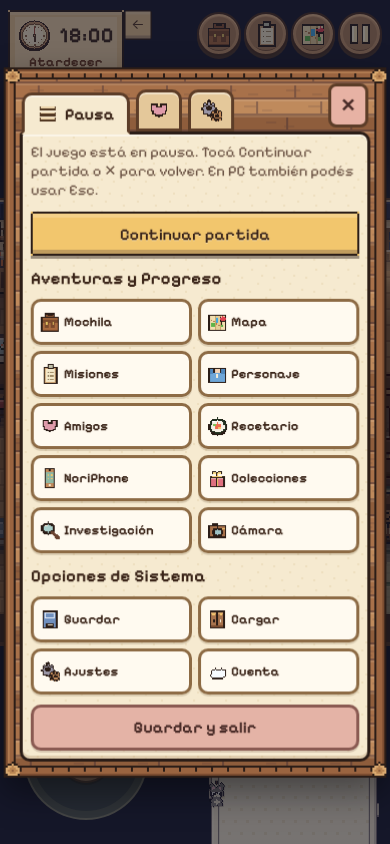
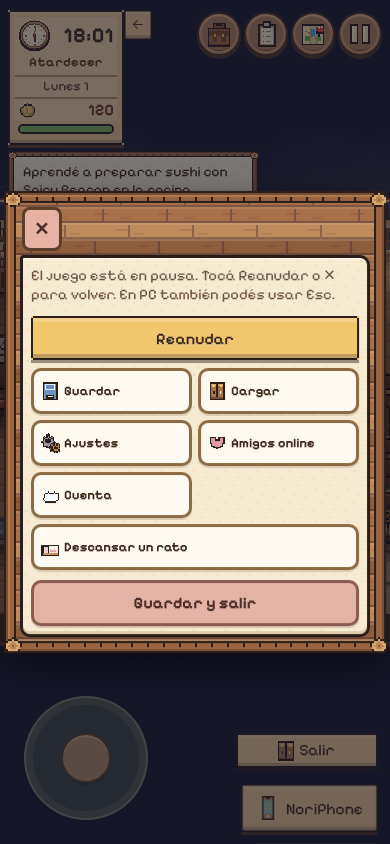
UI etapa 2: pausa con Reanudar, Guardar, Cargar, Ajustes y Salir; partidas vacías sin botón; dormir en un cuadro compacto; recetas conocidas primero; mejoras disponibles antes que bloqueadas; encargos con detalle plegable
Claude-Session: https://claude.ai/code/session_01Q9tFTKZvvquF6SSLj5Ec4x

diff --git a/src/ui/menus.ts b/src/ui/menus.ts
@@ -1,4 +1,3 @@
-import { inputMethod } from '../input/keys';
 import { recipeCollectionView } from './recipes';
 import { runTask } from '../core/errors';
 /** Main in-game menus: bag, journal (quests, investigation, relations, collections, calendar), and menu. */
@@ -25,8 +24,6 @@ import { openTownMemories } from './townMemories';
 import { chip, emptyState, tabBar } from './kit';
 import { skinIconEl } from './skin';
 import { dayOfSeason, seasonOf, SEASONS, weekday } from '../core/balance';
-import { settings } from '../core/settings';
-import { bindingMap, keyLabel, type GameAction } from '../input/bindings';
 
 function tabs(names: string[], onPick: (i: number) => void, start = 0, icons: string[] = []) {
   const bar = tabBar(names.map((label, i) => ({ label, icon: icons[i] })), onPick, start);
@@ -258,69 +255,29 @@ export function openMenu(pause = false) {
   const p = panel({ title: 'Menú', body: grid });
 }
 
-/** Wooden pause board from the reference: adventures on top, system underneath, exit across the bottom. */
+/** Pause board: resume, save, load, settings and exit. Everything else lives in the NoriPhone. */
 function openPauseBoard() {
-  const keys = bindingMap(settings.bindings);
-  const badge = (action: GameAction) => keyLabel(keys[action]);
   let close = () => {};
   const go = (fn: () => void) => () => { close(); void runTask('ui:menu', fn); };
-  const item = (label: string, icon: string, fn: () => void, key?: string, wide = false) =>
-    h('button', { type: 'button', class: 'pause-item' + (wide ? ' wide' : ''), onclick: go(fn) }, skinIconEl(icon), h('span', null, label), key && inputMethod() !== 'touch' ? h('kbd', null, key) : null);
+  const item = (label: string, icon: string, fn: () => void, wide = false) =>
+    h('button', { type: 'button', class: 'pause-item' + (wide ? ' wide' : ''), onclick: go(fn) }, skinIconEl(icon), h('span', null, label));
 
-  const adventure = h('div', { class: 'pause-page' },
-    h('p', { class: 'pause-hint' }, 'El juego está en pausa. Tocá Continuar partida o ✕ para volver. En PC también podés usar Esc.'),
-    h('button', { type: 'button', class: 'btn primary', onclick: () => close() }, 'Continuar partida'),
-    h('h3', null, 'Aventuras y Progreso'),
-    h('div', { class: 'pause-grid' },
-      item('Mochila', 'bag', () => openBag(), badge('inventory')),
-      item('Mapa', 'map', () => openMap(), badge('map')),
-      item('Misiones', 'clipboard', () => openJournal(0), badge('journal')),
-      item('Personaje', 'shirt', () => import('./wardrobe').then((m) => m.openWardrobe())),
-      item('Amigos', 'heart', () => openJournal(2)),
-      item('Recetario', 'maki', () => openJournal(4)),
-      item('NoriPhone', 'phone', () => openNoriPhone(), 'Tab'),
-      item('Colecciones', 'gift', () => openJournal(3)),
-      item('Investigación', 'inspect', () => openJournal(1)),
-      item('Cámara', 'camera', () => import('./camera').then((m) => m.takePhoto())),
-    ),
-    h('h3', null, 'Opciones de Sistema'),
+  const page = h('div', { class: 'pause-page' },
+    h('p', { class: 'pause-hint' }, 'El juego está en pausa. Tocá Reanudar o ✕ para volver. En PC también podés usar Esc.'),
+    h('button', { type: 'button', class: 'btn primary', onclick: () => close() }, 'Reanudar'),
     h('div', { class: 'pause-grid' },
       item('Guardar', 'disk', saveManualSlot),
       item('Cargar', 'door', loadSlot),
       item('Ajustes', 'gear', () => openSettings(true)),
+      item('Amigos online', 'heart', () => import('./friends').then((m) => m.openFriends())),
       item('Cuenta', 'cloud', () => import('./account').then((m) => m.openAccount())),
+      item('Descansar un rato', 'bed', () => restPeriod(), true),
     ),
     h('button', { type: 'button', class: 'pause-exit', onclick: go(saveAndExit) }, 'Guardar y salir'),
   );
-  const friends = h('div', { class: 'pause-page' },
-    h('h3', null, 'Amigos'),
-    h('div', { class: 'pause-grid' },
-      item('Amigos', 'heart', () => openJournal(2)),
-      item('Amigos online', 'heart', () => import('./friends').then((m) => m.openFriends())),
-      item('Jugar juntos', 'maki', () => import('./coop').then((m) => m.openCoop()), undefined, true),
-    ),
-  );
-  const system = h('div', { class: 'pause-page' },
-    h('h3', null, 'Sistema'),
-    h('div', { class: 'pause-grid' },
-      item('Ajustes', 'gear', () => openSettings(true)),
-      item('Descansar un rato', 'bed', () => restPeriod(), undefined, true),
-    ),
-  );
-  const pages = [adventure, friends, system];
-  const host = h('div', { class: 'pause-pages' });
-  const show = (i: number) => host.replaceChildren(pages[i]);
-  show(0);
-  const bar = tabBar([
-    { label: 'Pausa', icon: 'menu' },
-    { label: 'Amigos', icon: 'heart' },
-    { label: 'Ajustes', icon: 'gear' },
-  ], show, 0);
-  bar.classList.add('pause-tabs');
-  const p = panel({ title: 'Pausa', body: host });
+  const p = panel({ title: 'Pausa', body: page });
   close = p.close;
   p.root.classList.add('pause-sheet');
-  p.root.querySelector('.panel-head')?.prepend(bar);
 }
 
 async function saveManualSlot() {

diff --git a/src/ui/errands.ts b/src/ui/errands.ts
@@ -35,10 +35,10 @@ export function errandsSection(onClaim?: () => void): HTMLElement {
       const p = progressOf(e), done = isComplete(e);
       return h('article', { class: 'card col errand-card' + (done && !e.claimed ? ' ready' : '') + (e.claimed ? ' claimed' : ''), 'data-errand-id': e.id },
         h('div', { class: 'errand-heading' }, h('b', null, errandFrom(e)), h('span', { class: 'errand-status' }, e.claimed ? 'Recibido' : done ? e.kind === 'deliver' ? 'Listo para entregar' : 'Listo para cobrar' : 'En curso')),
-        h('div', null, errandText(e)),
-        h('p', { class: 'hint' }, errandHint(e)),
+        h('div', { class: 'errand-goal' }, errandText(e)),
         rewardList(e.coins, e.rewards),
         h('div', { class: 'bar', role: 'progressbar', 'aria-label': 'Progreso del encargo', 'aria-valuemin': '0', 'aria-valuemax': e.goal, 'aria-valuenow': p }, h('i', { style: { width: `${p / e.goal * 100}%` } })),
+        h('details', { class: 'errand-more' }, h('summary', null, 'Cómo se cumple'), h('p', { class: 'hint' }, errandHint(e))),
         h('div', { class: 'errand-actions' }, h('span', { class: 'hint' }, e.claimed ? 'Premio recibido' : `${p}/${e.goal}${pending ? ' · Premio guardado' : weekly ? ` · Hasta el día ${e.dueDay ?? st.week * 7 + 7}` : ' · Hoy'}`),
           done && !e.claimed ? h('button', { class: 'btn small primary', onclick: () => {
             const receipt = claimErrandReward(e.id);
@@ -51,14 +51,14 @@ export function errandsSection(onClaim?: () => void): HTMLElement {
             render();
           } }, e.kind === 'deliver' ? `Entregar ${e.goal} y recibir` : 'Recibir premio') : null));
     };
-    wrap.append(h('h3', null, `Encargos de hoy · Día ${st.day}`), h('p', { class: 'hint' }, 'Opcionales y sin castigos. Los premios de encargos completados esperan hasta que los cobres.'), ...st.daily.map((e) => card(e, false)));
-    wrap.append(h('h3', null, `Meta semanal · ${WEEKLY_THEMES.find((t) => t.id === st.weeklyTheme)?.name ?? 'Ayudar al pueblo'}`), h('p', { class: 'hint' }, 'Cada semana propone otra actividad disponible. Los muebles y adornos se guardan para que elijas dónde colocarlos.'), ...st.weekly.map((e) => card(e, true)));
+    wrap.append(h('h3', null, `Encargos de hoy · Día ${st.day}`), h('p', { class: 'hint' }, 'Opcionales y sin castigos. Los premios esperan hasta que los cobres.'), ...st.daily.map((e) => card(e, false)));
+    wrap.append(h('h3', null, `Meta semanal · ${WEEKLY_THEMES.find((t) => t.id === st.weeklyTheme)?.name ?? 'Ayudar al pueblo'}`), h('p', { class: 'hint' }, 'Cada semana propone otra actividad. Los muebles y adornos se guardan para que elijas dónde colocarlos.'), ...st.weekly.map((e) => card(e, true)));
     if (st.pending?.length) wrap.append(h('h3', null, 'Premios pendientes'), ...st.pending.map((e) => card(e, e.id.startsWith('w'), true)));
     const completed = game.save.stats.weeklyErrandsDone ?? 0;
-    wrap.append(h('h3', null, 'Gracias de Villa Nori'), h('p', { class: 'hint' }, `${completed} encargos semanales recibidos. Podés dejar pasar semanas: no hay rachas que mantener.`), h('div', { class: 'errand-stamps' }, ...WEEKLY_STAMPS.map((stamp) => {
+    wrap.append(h('details', { class: 'errand-more errand-thanks' }, h('summary', null, `Gracias de Villa Nori · ${completed} encargos semanales`), h('p', { class: 'hint' }, 'Podés dejar pasar semanas: no hay rachas que mantener.'), h('div', { class: 'errand-stamps' }, ...WEEKLY_STAMPS.map((stamp) => {
       const got = game.has('once_errand_stamp_' + stamp.goal);
       return h('div', { class: 'errand-stamp' + (got ? ' earned' : '') }, furniturePicture(stamp.furniture), h('b', null, stamp.name), h('span', { class: 'hint' }, FURN_BY_ID[stamp.furniture].name), h('span', { class: 'hint' }, got ? 'Recibido · disponible en Decorar' : `Al recibir ${stamp.goal} metas semanales`));
-    })));
+    }))));
   };
   render();
   return wrap;

diff --git a/src/ui/styles.css b/src/ui/styles.css
@@ -141,6 +141,7 @@ button { font-family: var(--pixel); font-size: 1em; cursor: pointer; color: inhe
 .hint { font-size: .85em; color: var(--ink-soft); }
 .coin { color: #a07116; font-weight: 700; }
 .pill { display: inline-block; padding: 2px 8px; border-radius: 999px; background: var(--cream-2); font-size: .8em; }
+.pill.ok { background: #dfe9c8; color: #3f5a2c; }
 .bar { height: 10px; border-radius: 6px; background: var(--cream-2); border: 2px solid var(--wood-dark); overflow: hidden; }
 .bar > i { display: block; height: 100%; background: var(--rose-2); }
 .card { background: #fff8e8; border: 3px solid var(--cream-2); border-radius: 12px; padding: 10px; }
@@ -214,14 +215,13 @@ h3 { margin: 4px 0 8px; font-size: 1.05em; }
 .start-load-bar i { display: block; height: 100%; width: 0; background: repeating-linear-gradient(90deg, #f2c66d 0 8px, #e0a94f 8px 10px); transition: width .18s steps(6); }
 .start-load-tip { width: 100%; min-height: 52px; padding: 8px 10px; background: var(--tx-parchment) 0 0 / 32px 32px; border: 3px solid #2b1d17; color: #3a2418; }
 .sleep-pick { display: flex; flex-direction: column; gap: 8px; align-items: stretch; text-align: center; }
-.sleep-wake {
-  font-size: 2.2em; letter-spacing: 2px; line-height: 1.1; padding: 10px 8px; color: #fff4dc; text-shadow: var(--outline);
-  border: 12px solid transparent; border-image: var(--tx-logframe) 8 / 12px round; background: var(--tx-planks) center / 64px 64px;
-}
 .sleep-detail { margin: 0; font-weight: 600; color: #6b3a1e; }
 .sleep-range { width: 100%; height: 36px; accent-color: #c9783f; touch-action: pan-x; }
-.sleep-scale { display: flex; justify-content: space-between; font-size: .8em; color: var(--ink-soft); padding: 0 2px; }
-.reduce-motion .start-load, .reduce-motion .start-load-bar i, .reduce-motion .sleep-wake { transition: none; animation: none; }
+.panel-backdrop:has(.sleep-sheet) { align-items: center; }
+.panel.sleep-sheet { height: auto; max-height: min(100%, 360px); }
+.sleep-range-row { display: flex; align-items: center; gap: 8px; }
+.sleep-range-row .sleep-range { flex: 1; min-width: 0; }
+.reduce-motion .start-load, .reduce-motion .start-load-bar i { transition: none; animation: none; }
 .fade.on { opacity: 1; pointer-events: auto; }
 
 /* ---------- Dialogue ---------- */
@@ -933,8 +933,13 @@ html, body { -webkit-touch-callout: none; overscroll-behavior: none; }
 
 /* Notice-board rewards and keepsakes use the existing parchment and wooden palette. */
 .errands-section h3 { margin: 12px 0 2px; color: var(--wood-dark); }
+.card.save-empty { border-style: dashed; opacity: .75; }
 .errand-card { gap: 6px; }
 .errand-card p { margin: 0; }
+.errand-goal { font-weight: 600; }
+.errand-more { font-size: .92em; }
+.errand-more summary { cursor: pointer; color: #586d48; font-weight: 600; padding: 2px 0; }
+.errand-more[open] summary { margin-bottom: 4px; }
 .errand-card.ready { border-color: #7a9c62; background: #f2f4e5; }
 .errand-card.claimed { opacity: .65; }
 .errand-heading, .errand-actions { display: flex; align-items: center; justify-content: space-between; gap: 8px; flex-wrap: wrap; }

diff --git a/e2e/pause-menu.spec.ts b/e2e/pause-menu.spec.ts
@@ -14,16 +14,15 @@ test('escape menu matches the wooden two-column board', async ({ page }) => {
   await page.keyboard.press('Escape');
   const board = page.locator('.pause-sheet');
   await expect(board).toBeVisible();
-  await expect(board).toContainText('Aventuras y Progreso');
-  await expect(board).toContainText('Opciones de Sistema');
   await expect(board).toContainText('El juego está en pausa.');
-  await expect(board.getByRole('button', { name: 'Continuar partida' })).toBeVisible();
+  await expect(board.getByRole('button', { name: 'Reanudar' })).toBeVisible();
   await expect(board.getByRole('button', { name: 'Guardar y salir' })).toBeVisible();
-  const mochila = await board.getByRole('button', { name: /Mochila/ }).boundingBox();
-  const mapa = await board.getByRole('button', { name: /Mapa/ }).boundingBox();
-  expect(mochila && mapa).toBeTruthy();
-  expect(Math.abs(mochila!.y - mapa!.y)).toBeLessThan(8);
-  expect(mapa!.x).toBeGreaterThan(mochila!.x + mochila!.width - 4);
+  const guardar = await board.getByRole('button', { name: 'Guardar', exact: true }).boundingBox();
+  const cargar = await board.getByRole('button', { name: /Cargar/ }).boundingBox();
+  expect(guardar && cargar).toBeTruthy();
+  expect(Math.abs(guardar!.y - cargar!.y)).toBeLessThan(8);
+  expect(cargar!.x).toBeGreaterThan(guardar!.x + guardar!.width - 4);
+  await expect(board.getByRole('button', { name: /Mochila/ })).toHaveCount(0);
   const sheet = await board.boundingBox();
   expect(sheet!.width).toBeLessThan(520);
   expect(sheet!.x).toBeGreaterThan(200);
@@ -37,10 +36,9 @@ test('escape menu matches the wooden two-column board', async ({ page }) => {
   expect(clipped).toEqual([]);
   await page.screenshot({ path: 'docs/art/pausa/menu-390.png' });
 
-  await board.getByRole('tab', { name: 'Amigos' }).click();
-  await expect(board.getByRole('button', { name: 'Jugar juntos' })).toBeVisible();
-  await board.getByRole('tab', { name: 'Ajustes' }).click();
   await expect(board.getByRole('button', { name: 'Descansar un rato' })).toBeVisible();
+  await board.getByRole('button', { name: 'Ajustes' }).click();
+  await expect(page.locator('.panel-head', { hasText: 'Ajustes' })).toBeVisible();
   await page.keyboard.press('Escape');
   await expect(board).toHaveCount(0);
   expect(await page.evaluate(() => (window as any).mmDebug.clock.paused)).toBe(false);
@@ -69,7 +67,7 @@ test.describe('touch pause', () => {
         return { paused: m.clock.paused, canAct: m.world.canAct(), unchanged: m.game.save.time.minutes === before };
       })).toEqual({ paused: true, canAct: false, unchanged: true });
       if (width === 390) await page.screenshot({ path: 'docs/art/pausa/tactil.png' });
-      await board.getByRole('button', { name: 'Continuar partida' }).tap();
+      await board.getByRole('button', { name: 'Reanudar' }).tap();
       await expect(board).toHaveCount(0);
       expect(await page.evaluate(() => ({ paused: (window as any).mmDebug.clock.paused, canAct: (window as any).mmDebug.world.canAct() }))).toEqual({ paused: false, canAct: true });
     }

diff --git a/src/restaurant/kitchen.ts b/src/restaurant/kitchen.ts
@@ -20,7 +20,7 @@ import { PRESENTATIONS, recordRecipeResult, recipePresentation } from './recipeC
 import { WANT_TEXT, canCook, customerAsk, customerName, GENERIC_CUSTOMERS, learnRecipe, maxOrders, refreshOrders, serveOrder, addRestaurantXp, unlockLevelRecipes, charm } from './orders';
 import { mirror } from './mirror';
 import { plateState, serviceBoardNote, stagePlate, servingName, tableLabel, type PaidMeal } from './service';
-import { UPGRADES, buyUpgrade, upgradeMissing } from './upgrades';
+import { UPGRADES, buyUpgrade, upgradeMissing, type UpgradeDef } from './upgrades';
 
 /** Where to get wood and stone, shown next to whatever is missing. */
 const materialHint = (missing: string[]) => (missing.some((m) => /^(Madera|Piedra)/.test(m)) ? '. La madera y la piedra se compran en la Carpintería de Ren (plaza) o se juntan por el pueblo.' : '');
@@ -535,13 +535,15 @@ export function openUpgrades(onClose?: () => void) {
             }
           });
         } }, 'Ascender')) : h('p', { class: 'hint' }, rs.level === 1 ? 'El nivel 2 se alcanza cocinando, sin cobrar monedas ni materiales.' : 'Nivel máximo alcanzado. Seguí eligiendo mejoras y disfrutando del pueblo.')));
-    for (const u of UPGRADES) {
+    // available first, then the ones still blocked, bought ones last (order only; costs and requirements unchanged)
+    const rank = (u: UpgradeDef) => game.save.restaurant.upgrades.includes(u.id) ? 2 : upgradeMissing(u).length ? 1 : 0;
+    for (const u of [...UPGRADES].sort((a, b) => rank(a) - rank(b))) {
       const owned = game.save.restaurant.upgrades.includes(u.id);
       const missing = upgradeMissing(u);
       body.append(
         h('div', { class: 'card col' },
           h('b', null, u.name), h('div', { class: 'hint' }, u.desc),
-          owned ? h('span', { class: 'pill' }, 'Comprada') : h('div', { class: 'col' }, h('span', { class: 'hint' }, resources(u.price, u.items ?? {})),
+          owned ? h('span', { class: 'pill' }, 'Comprada') : h('div', { class: 'col' }, h('span', { class: missing.length ? 'pill' : 'pill ok' }, missing.length ? 'Bloqueada' : 'Disponible'), h('span', { class: 'hint' }, resources(u.price, u.items ?? {})),
             missing.length ? h('span', { class: 'hint' }, `Falta: ${missing.join(' · ')}${materialHint(missing)}`) : null,
             h('button', { class: 'btn primary', disabled: !!missing.length, onclick: () => { if (buyUpgrade(u.id)) { audio.sfxPlay('coin'); toast(`¡${u.name}!`); render(); } else { toast('No se pudo construir: revisá los recursos o el espacio libre del cuarto. No se cobró nada.'); render(); } } }, 'Construir'))),
       );

diff --git a/src/systems/sleep.ts b/src/systems/sleep.ts
@@ -27,7 +27,6 @@ function sleepSlider(bed: number): Promise<number | null> {
   let settled = false;
   let closePanel = () => {};
   const before = Math.round(getEnergy());
-  const wake = h('div', { class: 'sleep-wake' }, '');
   const detail = h('p', { class: 'sleep-detail' }, '');
   const energy = h('p', { class: 'hint' }, '');
   const input = h('input', {
@@ -44,14 +43,12 @@ function sleepSlider(bed: number): Promise<number | null> {
     const plan = wakePlan(bed, hours);
     const after = Math.round(energyAfterSleep(before, plan.sleptHours));
     const when = hhmm(plan.wakeMinute);
-    wake.textContent = when;
-    detail.textContent = `${plan.sleptHours} ${plan.sleptHours === 1 ? 'hora' : 'horas'} · despertás a las ${when}`;
+    const next = plan.advanceDay ? 'empieza el día siguiente' : 'seguís el mismo día';
+    detail.textContent = `${plan.sleptHours} ${plan.sleptHours === 1 ? 'hora' : 'horas'} · despertás a las ${when}, ${next}`;
     energy.textContent = `Energía ${before} → ${after}`;
-    input.setAttribute('aria-valuetext', `${plan.sleptHours} horas, despertás a las ${when}`);
+    input.setAttribute('aria-valuetext', `${plan.sleptHours} horas, despertás a las ${when}, ${next}`);
   };
   input.addEventListener('input', paint);
-  const ticks: HTMLElement[] = [];
-  for (let n = MIN_SLEEP; n <= MAX_SLEEP; n++) ticks.push(h('span', null, String(n)));
   return new Promise((resolve) => {
     const finish = (value: number | null) => {
       if (settled) return;
@@ -63,11 +60,8 @@ function sleepSlider(bed: number): Promise<number | null> {
     const opened = panel({
       title: 'A dormir',
       body: h('div', { class: 'sleep-pick' },
-        h('p', { class: 'hint' }, 'Deslizá cuántas horas pasan. El reloj avanza esas horas, no salta a las 6.'),
-        wake,
+        h('div', { class: 'sleep-range-row' }, h('span', { class: 'hint' }, `${MIN_SLEEP}`), input, h('span', { class: 'hint' }, `${MAX_SLEEP}`)),
         detail,
-        input,
-        h('div', { class: 'sleep-scale', 'aria-hidden': 'true' }, ...ticks),
         energy,
       ),
       foot: [
@@ -77,6 +71,7 @@ function sleepSlider(bed: number): Promise<number | null> {
       onClose: () => finish(null),
     });
     closePanel = opened.close;
+    opened.root.classList.add('sleep-sheet');
     paint();
   });
 }

diff --git a/src/ui/saves.ts b/src/ui/saves.ts
@@ -36,13 +36,15 @@ export async function loadChoiceList(onPick: (slot: number, kind: 'auto' | 'manu
   col.append(h('p', { class: 'hint' }, 'Cada partida puede tener un guardado automático, con el último progreso, y uno manual, el punto fijo.'));
   for (const info of slots) {
     const body = h('div', { class: 'col' });
-    if (!info.auto && !info.manual) body.append(h('p', { class: 'hint', style: { margin: '0' } }, 'Vacía · Empezar una nueva aventura'));
+    const empty = !info.auto && !info.manual;
+    // an empty slot is information only: no button, so it never looks like something to press
+    if (empty) body.append(h('p', { class: 'hint save-empty-note', style: { margin: '0' } }, 'Sin partida guardada'));
     for (const brief of [info.auto, info.manual]) {
       if (!brief) continue;
       const label = brief.kind === 'auto' ? 'Automático' : 'Manual';
       body.append(choiceButton(`${label} · ${brief.name} · día ${brief.day}`, describeBrief(brief), () => onPick(info.slot, brief.kind)));
     }
-    col.append(h('div', { class: 'card col' }, h('b', null, slotTitle(info.slot)), body));
+    col.append(h('div', { class: 'card col' + (empty ? ' save-empty' : ''), 'data-empty': String(empty) }, h('b', null, slotTitle(info.slot)), body));
   }
   return col;
 }

diff --git a/src/ui/recipes.ts b/src/ui/recipes.ts
@@ -68,7 +68,8 @@ export function recipeCollectionView(): HTMLElement {
       return;
     }
     for (const cat of Object.keys(CATEGORIES) as (keyof typeof CATEGORIES)[]) {
-      const list = recipes.filter((r) => r.cat === cat);
+      // known recipes first inside each category, then the ones still to discover
+      const list = recipes.filter((r) => r.cat === cat).sort((a, b) => Number(known(b)) - Number(known(a)));
       if (!list.length) continue;
       const grid = h('div', { class: 'recipe-grid' });
       for (const r of list) {
